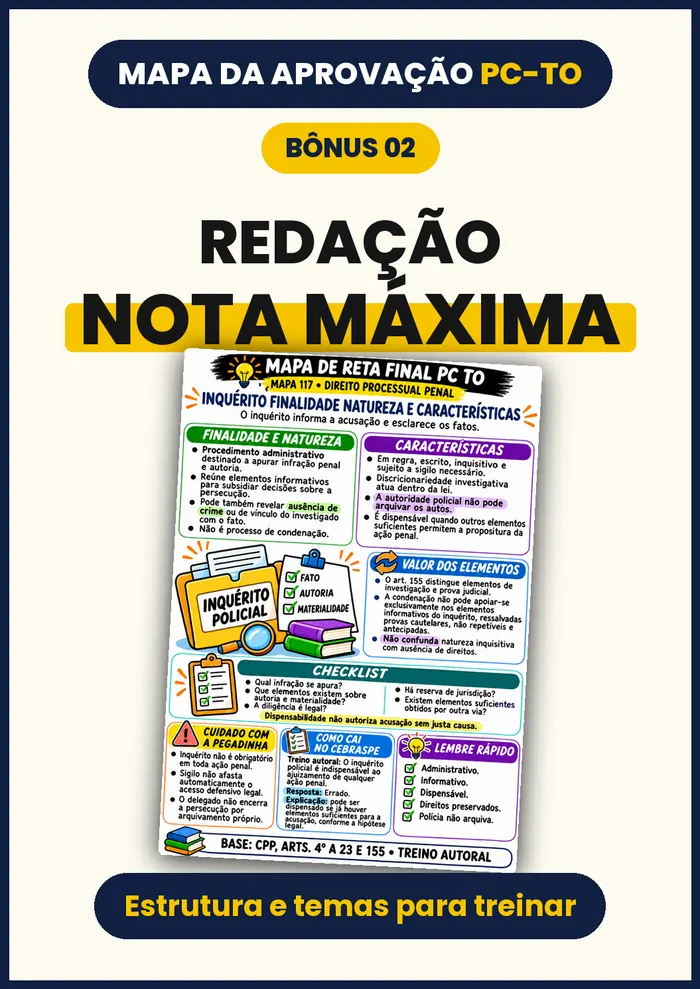
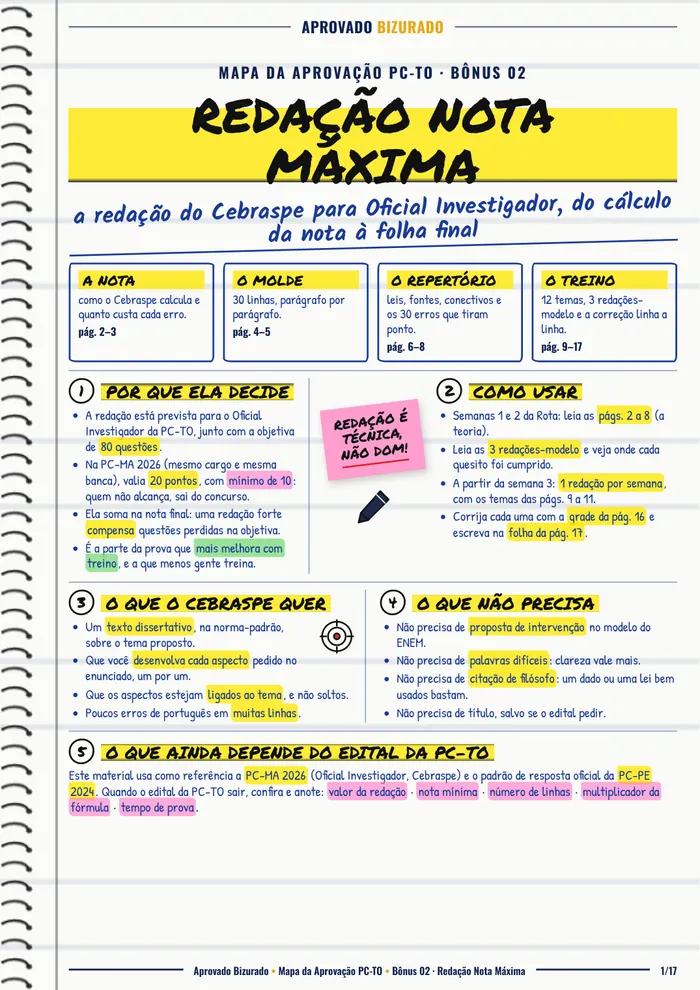
Capa real do Bônus 02 (Redação Nota Máxima) no card e no mockup

diff --git a/index.html b/index.html
@@ -248,7 +248,7 @@
     <div class="bonus-list">
       <div class="bonus-card">
         <span class="bonus-card__tag">BÔNUS 01</span>
-        <img src="/assets/img/bonus-01.webp?v=7" alt="Simulado da Aprovação" loading="lazy" />
+        <img src="/assets/img/bonus-01.webp?v=8" alt="Simulado da Aprovação" loading="lazy" />
         <h3>Simulado da Aprovação</h3>
         <p>A experiência do dia da prova, quantas vezes você quiser, no padrão Cebraspe e com as matérias de investigador de polícia civil.</p>
         <p class="bonus-card__extra">Cada questão comentada leva você direto ao mapa do que errou.</p>
@@ -257,7 +257,7 @@
 
       <div class="bonus-card">
         <span class="bonus-card__tag">BÔNUS 02</span>
-        <img src="/assets/img/bonus-02.webp?v=7" alt="Redação Nota Máxima" loading="lazy" />
+        <img src="/assets/img/bonus-02.webp?v=8" alt="Redação Nota Máxima" loading="lazy" />
         <h3>Redação Nota Máxima</h3>
         <p>A estrutura da redação do Cebraspe, como a nota é calculada e os temas para treinar: segurança pública, investigação criminal, tecnologia no combate ao crime e direitos humanos.</p>
         <p class="bonus-card__extra">Chegue à prova com a mão treinada.</p>
@@ -266,7 +266,7 @@
 
       <div class="bonus-card">
         <span class="bonus-card__tag">BÔNUS 03</span>
-        <img src="/assets/img/bonus-03.webp?v=7" alt="Pegadinhas do Cebraspe" loading="lazy" />
+        <img src="/assets/img/bonus-03.webp?v=8" alt="Pegadinhas do Cebraspe" loading="lazy" />
         <h3>Pegadinhas do Cebraspe</h3>
         <p>Como o Cebraspe monta a questão que derruba: o termo trocado, a autoridade trocada, a exceção invertida e a meia verdade, com o passo a passo para não cair.</p>
         <p class="bonus-card__extra">Pare de perder ponto no detalhe.</p>
@@ -275,7 +275,7 @@
 
       <div class="bonus-card">
         <span class="bonus-card__tag">BÔNUS 04</span>
-        <img src="/assets/img/bonus-04.webp?v=7" alt="Rota da Aprovação PC-TO" loading="lazy" />
+        <img src="/assets/img/bonus-04.webp?v=8" alt="Rota da Aprovação PC-TO" loading="lazy" />
         <h3>Rota da Aprovação PC-TO</h3>
         <p>Do pré-edital à prova, semana a semana: o que estudar agora, o que encaixar quando o edital sair, quando revisar e quando resolver questões.</p>
         <p class="bonus-card__extra">É só seguir.</p>
@@ -445,6 +445,6 @@
   </div>
 </footer>
 
-<script src="/assets/js/main.js?v=7"></script>
+<script src="/assets/js/main.js?v=8"></script>
 </body>
 </html>

diff --git a/assets/js/main.js b/assets/js/main.js
@@ -56,7 +56,7 @@ document.addEventListener("DOMContentLoaded", () => {
 
   /* ---------- Stack art (mockup do produto) ---------- */
   document.querySelectorAll(".stack-art").forEach((el) => {
-    el.innerHTML = '<img src="/assets/img/mockup-produto.webp?v=7" alt="Mapa da Aprovação PC-TO: 290 mapas visuais e 4 bônus" loading="lazy" />';
+    el.innerHTML = '<img src="/assets/img/mockup-produto.webp?v=8" alt="Mapa da Aprovação PC-TO: 290 mapas visuais e 4 bônus" loading="lazy" />';
   });
 
   /* ---------- Marquee controls (pause / prev / next) ---------- */
